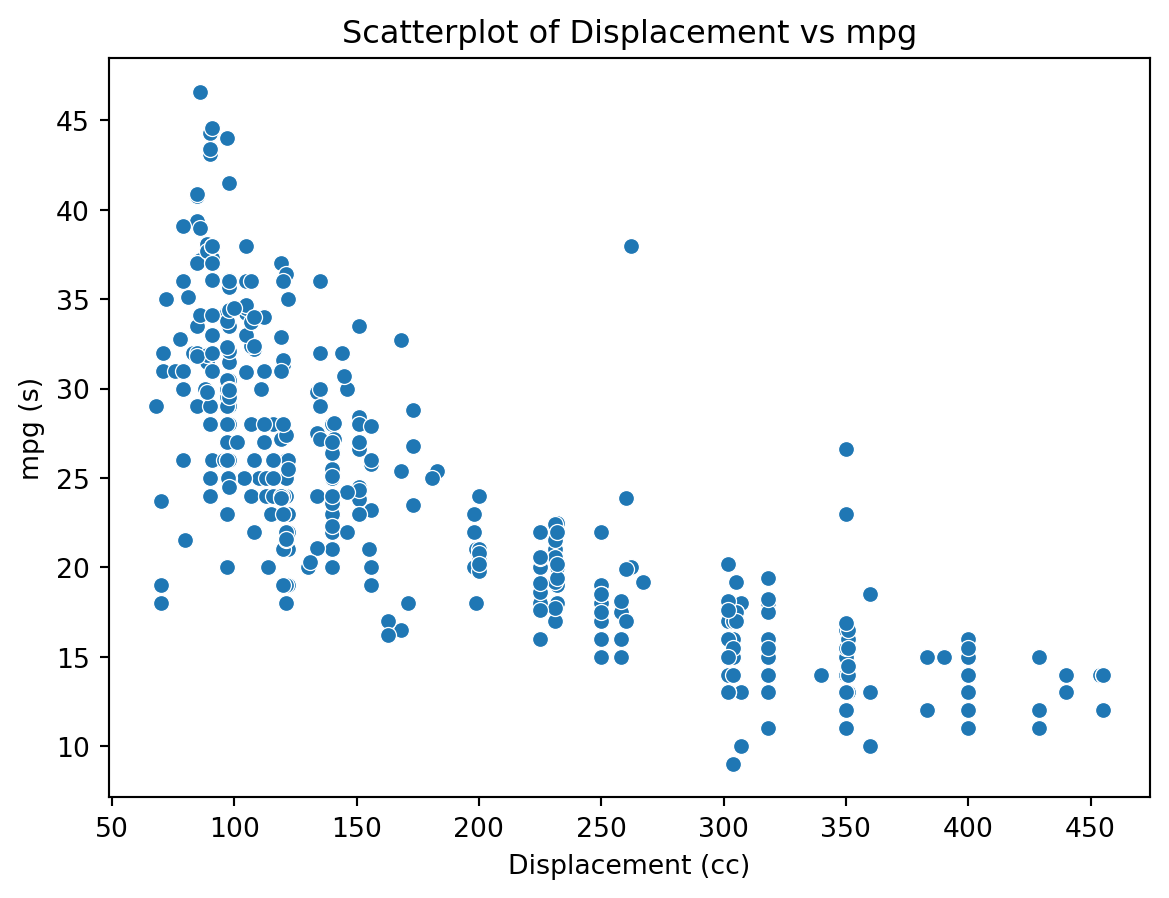
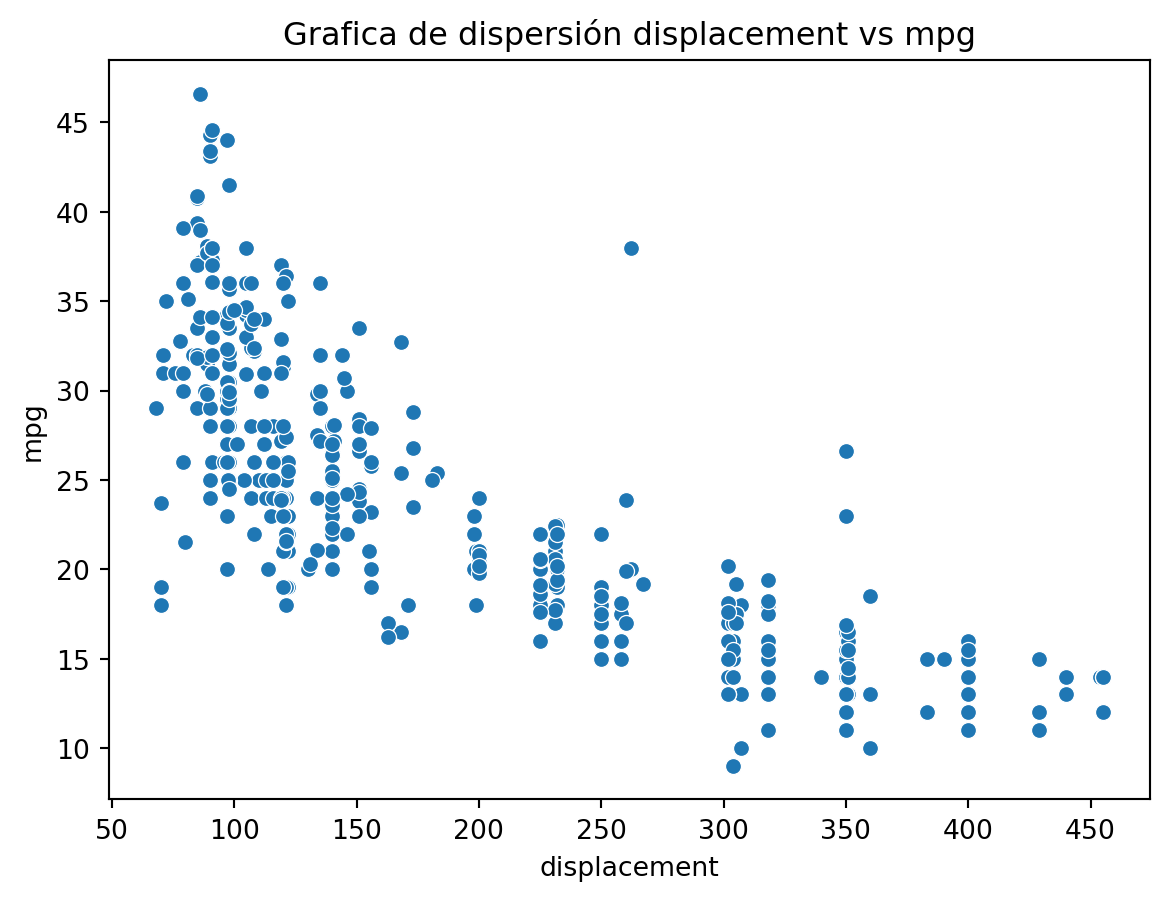
adelanto

diff --git a/_site/index.html b/_site/index.html
@@ -142,9 +142,13 @@ pre > code.sourceCode > span > a:first-child::before { text-decoration: underlin
     <h2 id="toc-title">On this page</h2>
    
   <ul>
-  <li><a href="#carga-del-dataset" id="toc-carga-del-dataset" class="nav-link active" data-scroll-target="#carga-del-dataset">Carga del dataset</a></li>
+  <li><a href="#carga-de-datos" id="toc-carga-de-datos" class="nav-link active" data-scroll-target="#carga-de-datos">Carga de datos</a></li>
   <li><a href="#en-qué-consiste-este-dataset-y-sus-características" id="toc-en-qué-consiste-este-dataset-y-sus-características" class="nav-link" data-scroll-target="#en-qué-consiste-este-dataset-y-sus-características">En qué consiste este dataset y sus características</a></li>
-  <li><a href="#análisis-exploratorio-para-identificar-la-distribución-de-las-variables-usadas-en-la-base-de-datos" id="toc-análisis-exploratorio-para-identificar-la-distribución-de-las-variables-usadas-en-la-base-de-datos" class="nav-link" data-scroll-target="#análisis-exploratorio-para-identificar-la-distribución-de-las-variables-usadas-en-la-base-de-datos">Análisis exploratorio para identificar la distribución de las variables usadas en la base de datos</a></li>
+  <li><a href="#análisis-exploratorio-para-identificar-la-distribución-de-las-variables-usadas-en-la-base-de-datos" id="toc-análisis-exploratorio-para-identificar-la-distribución-de-las-variables-usadas-en-la-base-de-datos" class="nav-link" data-scroll-target="#análisis-exploratorio-para-identificar-la-distribución-de-las-variables-usadas-en-la-base-de-datos">Análisis exploratorio para identificar la distribución de las variables usadas en la base de datos</a>
+  <ul class="collapse">
+  <li><a href="#variables-continuas" id="toc-variables-continuas" class="nav-link" data-scroll-target="#variables-continuas">Variables continuas</a></li>
+  <li><a href="#variables-categoricas" id="toc-variables-categoricas" class="nav-link" data-scroll-target="#variables-categoricas">Variables categoricas</a></li>
+  </ul></li>
   <li><a href="#datos-faltantes-en-cada-uno-de-las-variables." id="toc-datos-faltantes-en-cada-uno-de-las-variables." class="nav-link" data-scroll-target="#datos-faltantes-en-cada-uno-de-las-variables.">Datos faltantes en cada uno de las variables.</a></li>
   <li><a href="#cuál-cree-que-es-el-mecanismo-inherente-a-esos-datos-faltantes" id="toc-cuál-cree-que-es-el-mecanismo-inherente-a-esos-datos-faltantes" class="nav-link" data-scroll-target="#cuál-cree-que-es-el-mecanismo-inherente-a-esos-datos-faltantes">¿Cuál cree que es el mecanismo inherente a esos datos faltantes?</a></li>
   <li><a href="#técnicas-de-tratamiento-de-datos-faltantes-vistas-en-clase" id="toc-técnicas-de-tratamiento-de-datos-faltantes-vistas-en-clase" class="nav-link" data-scroll-target="#técnicas-de-tratamiento-de-datos-faltantes-vistas-en-clase">Técnicas de tratamiento de datos faltantes (vistas en clase)</a></li>
@@ -172,19 +176,24 @@ pre > code.sourceCode > span > a:first-child::before { text-decoration: underlin
 
 </header>
 
-<section id="carga-del-dataset" class="level2">
-<h2 class="anchored" data-anchor-id="carga-del-dataset">Carga del dataset</h2>
+<section id="carga-de-datos" class="level2">
+<h2 class="anchored" data-anchor-id="carga-de-datos">Carga de datos</h2>
 <div class="cell" data-execution_count="1">
+<details>
+<summary>Code</summary>
 <div class="sourceCode cell-code" id="cb1"><pre class="sourceCode python code-with-copy"><code class="sourceCode python"><span id="cb1-1"><a href="#cb1-1" aria-hidden="true" tabindex="-1"></a><span class="im">from</span> ucimlrepo <span class="im">import</span> fetch_ucirepo </span>
 <span id="cb1-2"><a href="#cb1-2" aria-hidden="true" tabindex="-1"></a><span class="im">import</span> pandas <span class="im">as</span> pd</span>
 <span id="cb1-3"><a href="#cb1-3" aria-hidden="true" tabindex="-1"></a><span class="im">import</span> seaborn <span class="im">as</span> sns</span>
 <span id="cb1-4"><a href="#cb1-4" aria-hidden="true" tabindex="-1"></a><span class="im">from</span> matplotlib <span class="im">import</span> pyplot <span class="im">as</span> plt</span>
-<span id="cb1-5"><a href="#cb1-5" aria-hidden="true" tabindex="-1"></a></span>
-<span id="cb1-6"><a href="#cb1-6" aria-hidden="true" tabindex="-1"></a>auto_mpg <span class="op">=</span> fetch_ucirepo(<span class="bu">id</span><span class="op">=</span><span class="dv">9</span>) </span>
+<span id="cb1-5"><a href="#cb1-5" aria-hidden="true" tabindex="-1"></a><span class="im">from</span> scipy <span class="im">import</span> stats</span>
+<span id="cb1-6"><a href="#cb1-6" aria-hidden="true" tabindex="-1"></a><span class="im">import</span> numpy <span class="im">as</span> np</span>
 <span id="cb1-7"><a href="#cb1-7" aria-hidden="true" tabindex="-1"></a></span>
-<span id="cb1-8"><a href="#cb1-8" aria-hidden="true" tabindex="-1"></a><span class="co"># data (as pandas dataframes) </span></span>
+<span id="cb1-8"><a href="#cb1-8" aria-hidden="true" tabindex="-1"></a>auto_mpg <span class="op">=</span> fetch_ucirepo(<span class="bu">id</span><span class="op">=</span><span class="dv">9</span>) </span>
 <span id="cb1-9"><a href="#cb1-9" aria-hidden="true" tabindex="-1"></a></span>
-<span id="cb1-10"><a href="#cb1-10" aria-hidden="true" tabindex="-1"></a>data <span class="op">=</span> pd.concat([auto_mpg.data.features, auto_mpg.data.targets], axis<span class="op">=</span><span class="dv">1</span>, join<span class="op">=</span><span class="st">'outer'</span>)</span></code><button title="Copy to Clipboard" class="code-copy-button"><i class="bi"></i></button></pre></div>
+<span id="cb1-10"><a href="#cb1-10" aria-hidden="true" tabindex="-1"></a><span class="co"># data (as pandas dataframes) </span></span>
+<span id="cb1-11"><a href="#cb1-11" aria-hidden="true" tabindex="-1"></a></span>
+<span id="cb1-12"><a href="#cb1-12" aria-hidden="true" tabindex="-1"></a>data <span class="op">=</span> pd.concat([auto_mpg.data.features, auto_mpg.data.targets], axis<span class="op">=</span><span class="dv">1</span>, join<span class="op">=</span><span class="st">'outer'</span>)</span></code><button title="Copy to Clipboard" class="code-copy-button"><i class="bi"></i></button></pre></div>
+</details>
 </div>
 </section>
 <section id="en-qué-consiste-este-dataset-y-sus-características" class="level2">
@@ -197,42 +206,115 @@ pre > code.sourceCode > span > a:first-child::before { text-decoration: underlin
 <li>horsepower: (caballos de fuerza) continua</li>
 <li>weight: (peso) continua</li>
 <li>acceleration: (acelearación) continua</li>
-<li>model year: (año modelo) multi valuada discreta</li>
+<li>model_year: (año modelo) multi valuada discreta</li>
 <li>origin: (origen) multi valuada discreta</li>
-<li>car name: (nombre de carro) texto, unico para cada fila</li>
 </ol>
-<p>398 filas y 8 columnas</p>
+<p>Este dataset consiste de 398 filas y 8 columnas</p>
 </section>
 <section id="análisis-exploratorio-para-identificar-la-distribución-de-las-variables-usadas-en-la-base-de-datos" class="level2">
 <h2 class="anchored" data-anchor-id="análisis-exploratorio-para-identificar-la-distribución-de-las-variables-usadas-en-la-base-de-datos">Análisis exploratorio para identificar la distribución de las variables usadas en la base de datos</h2>
-<p>¿será que existe relación entre las variables?</p>
-<div class="cell" title="Iowa Electricity" data-execution_count="2">
-<div class="sourceCode cell-code" id="cb2"><pre class="sourceCode python code-with-copy"><code class="sourceCode python"><span id="cb2-1"><a href="#cb2-1" aria-hidden="true" tabindex="-1"></a><span class="co"># Create a scatterplot of 'displacement' vs 'acceleration'</span></span>
-<span id="cb2-2"><a href="#cb2-2" aria-hidden="true" tabindex="-1"></a>sns.scatterplot(x<span class="op">=</span><span class="st">'displacement'</span>, y<span class="op">=</span><span class="st">'mpg'</span>, data<span class="op">=</span>data)</span>
-<span id="cb2-3"><a href="#cb2-3" aria-hidden="true" tabindex="-1"></a></span>
-<span id="cb2-4"><a href="#cb2-4" aria-hidden="true" tabindex="-1"></a><span class="co"># Add labels and title</span></span>
-<span id="cb2-5"><a href="#cb2-5" aria-hidden="true" tabindex="-1"></a>plt.xlabel(<span class="st">'Displacement (cc)'</span>)</span>
-<span id="cb2-6"><a href="#cb2-6" aria-hidden="true" tabindex="-1"></a>plt.ylabel(<span class="st">'mpg (s)'</span>)</span>
-<span id="cb2-7"><a href="#cb2-7" aria-hidden="true" tabindex="-1"></a>plt.title(<span class="st">'Scatterplot of Displacement vs mpg'</span>)</span>
-<span id="cb2-8"><a href="#cb2-8" aria-hidden="true" tabindex="-1"></a></span>
-<span id="cb2-9"><a href="#cb2-9" aria-hidden="true" tabindex="-1"></a><span class="co"># Display the plot</span></span>
-<span id="cb2-10"><a href="#cb2-10" aria-hidden="true" tabindex="-1"></a>plt.show()</span></code><button title="Copy to Clipboard" class="code-copy-button"><i class="bi"></i></button></pre></div>
+<section id="variables-continuas" class="level3">
+<h3 class="anchored" data-anchor-id="variables-continuas">Variables continuas</h3>
+<div class="cell" data-execution_count="2">
+<details>
+<summary>Code</summary>
+<div class="sourceCode cell-code" id="cb2"><pre class="sourceCode python code-with-copy"><code class="sourceCode python"><span id="cb2-1"><a href="#cb2-1" aria-hidden="true" tabindex="-1"></a><span class="cf">for</span> col <span class="kw">in</span> [<span class="st">"displacement"</span>, <span class="st">"horsepower"</span>, <span class="st">"weight"</span>, <span class="st">"acceleration"</span>]:</span>
+<span id="cb2-2"><a href="#cb2-2" aria-hidden="true" tabindex="-1"></a>  <span class="co"># Create a scatterplot of --- vs 'acceleration'</span></span>
+<span id="cb2-3"><a href="#cb2-3" aria-hidden="true" tabindex="-1"></a>  sns.scatterplot(x<span class="op">=</span>col, y<span class="op">=</span><span class="st">'mpg'</span>, data<span class="op">=</span>data)</span>
+<span id="cb2-4"><a href="#cb2-4" aria-hidden="true" tabindex="-1"></a>  </span>
+<span id="cb2-5"><a href="#cb2-5" aria-hidden="true" tabindex="-1"></a>  <span class="co"># Add labels and title</span></span>
+<span id="cb2-6"><a href="#cb2-6" aria-hidden="true" tabindex="-1"></a>  plt.xlabel(<span class="ss">f"</span><span class="sc">{</span>col<span class="sc">}</span><span class="ss">"</span>)</span>
+<span id="cb2-7"><a href="#cb2-7" aria-hidden="true" tabindex="-1"></a>  plt.ylabel(<span class="ss">f"mpg"</span>)</span>
+<span id="cb2-8"><a href="#cb2-8" aria-hidden="true" tabindex="-1"></a>  plt.title(<span class="ss">f"Grafica de dispersión </span><span class="sc">{</span>col<span class="sc">}</span><span class="ss"> vs mpg"</span>)</span>
+<span id="cb2-9"><a href="#cb2-9" aria-hidden="true" tabindex="-1"></a>  </span>
+<span id="cb2-10"><a href="#cb2-10" aria-hidden="true" tabindex="-1"></a>  <span class="co"># Display the plot</span></span>
+<span id="cb2-11"><a href="#cb2-11" aria-hidden="true" tabindex="-1"></a>  plt.show()</span></code><button title="Copy to Clipboard" class="code-copy-button"><i class="bi"></i></button></pre></div>
+</details>
 <div class="cell-output cell-output-display">
-<p><img src="index_files/figure-html/cell-3-output-1.png" width="585" height="449"></p>
+<p><img src="index_files/figure-html/cell-3-output-1.png" width="585" height="450"></p>
+</div>
+<div class="cell-output cell-output-display">
+<p><img src="index_files/figure-html/cell-3-output-2.png" width="585" height="450"></p>
+</div>
+<div class="cell-output cell-output-display">
+<p><img src="index_files/figure-html/cell-3-output-3.png" width="585" height="450"></p>
+</div>
+<div class="cell-output cell-output-display">
+<p><img src="index_files/figure-html/cell-3-output-4.png" width="585" height="450"></p>
 </div>
 </div>
+<div class="cell" data-execution_count="3">
+<details>
+<summary>Code</summary>
+<div class="sourceCode cell-code" id="cb3"><pre class="sourceCode python code-with-copy"><code class="sourceCode python"><span id="cb3-1"><a href="#cb3-1" aria-hidden="true" tabindex="-1"></a><span class="co"># List of variables to plot</span></span>
+<span id="cb3-2"><a href="#cb3-2" aria-hidden="true" tabindex="-1"></a>X <span class="op">=</span> [<span class="st">'displacement'</span>, <span class="st">'horsepower'</span>, <span class="st">'weight'</span>, <span class="st">'acceleration'</span>]</span>
+<span id="cb3-3"><a href="#cb3-3" aria-hidden="true" tabindex="-1"></a></span>
+<span id="cb3-4"><a href="#cb3-4" aria-hidden="true" tabindex="-1"></a><span class="co"># Create a correlation matrix</span></span>
+<span id="cb3-5"><a href="#cb3-5" aria-hidden="true" tabindex="-1"></a>corr <span class="op">=</span> data[X <span class="op">+</span> [<span class="st">'mpg'</span>]].corr(method <span class="op">=</span> <span class="st">"spearman"</span>)</span>
+<span id="cb3-6"><a href="#cb3-6" aria-hidden="true" tabindex="-1"></a></span>
+<span id="cb3-7"><a href="#cb3-7" aria-hidden="true" tabindex="-1"></a></span>
+<span id="cb3-8"><a href="#cb3-8" aria-hidden="true" tabindex="-1"></a><span class="co"># Set up the matplotlib figure</span></span>
+<span id="cb3-9"><a href="#cb3-9" aria-hidden="true" tabindex="-1"></a>plt.figure(figsize<span class="op">=</span>(<span class="dv">8</span>, <span class="dv">6</span>))</span>
+<span id="cb3-10"><a href="#cb3-10" aria-hidden="true" tabindex="-1"></a></span>
+<span id="cb3-11"><a href="#cb3-11" aria-hidden="true" tabindex="-1"></a><span class="co"># Draw the heatmap with the mask and annotations</span></span>
+<span id="cb3-12"><a href="#cb3-12" aria-hidden="true" tabindex="-1"></a>sns.heatmap(corr, annot<span class="op">=</span><span class="va">True</span>, cmap<span class="op">=</span><span class="st">'coolwarm'</span>, vmin<span class="op">=-</span><span class="dv">1</span>, vmax<span class="op">=</span><span class="dv">1</span>,</span>
+<span id="cb3-13"><a href="#cb3-13" aria-hidden="true" tabindex="-1"></a>            xticklabels<span class="op">=</span>X <span class="op">+</span> [<span class="st">'mpg'</span>], yticklabels<span class="op">=</span>X <span class="op">+</span> [<span class="st">'mpg'</span>])</span>
+<span id="cb3-14"><a href="#cb3-14" aria-hidden="true" tabindex="-1"></a></span>
+<span id="cb3-15"><a href="#cb3-15" aria-hidden="true" tabindex="-1"></a><span class="co"># Add labels</span></span>
+<span id="cb3-16"><a href="#cb3-16" aria-hidden="true" tabindex="-1"></a>plt.title(<span class="st">'Correlación: Variables vs. MPG'</span>, fontsize<span class="op">=</span><span class="dv">14</span>)</span>
+<span id="cb3-17"><a href="#cb3-17" aria-hidden="true" tabindex="-1"></a>plt.xlabel(<span class="st">'Variables'</span>, fontsize<span class="op">=</span><span class="dv">12</span>)</span>
+<span id="cb3-18"><a href="#cb3-18" aria-hidden="true" tabindex="-1"></a>plt.ylabel(<span class="st">'Variables'</span>, fontsize<span class="op">=</span><span class="dv">12</span>)</span>
+<span id="cb3-19"><a href="#cb3-19" aria-hidden="true" tabindex="-1"></a></span>
+<span id="cb3-20"><a href="#cb3-20" aria-hidden="true" tabindex="-1"></a><span class="co"># Show the plot</span></span>
+<span id="cb3-21"><a href="#cb3-21" aria-hidden="true" tabindex="-1"></a>plt.show()</span></code><button title="Copy to Clipboard" class="code-copy-button"><i class="bi"></i></button></pre></div>
+</details>
+<div class="cell-output cell-output-display">
+<p><img src="index_files/figure-html/cell-4-output-1.png" width="641" height="528"></p>
+</div>
+</div>
+</section>
+<section id="variables-categoricas" class="level3">
+<h3 class="anchored" data-anchor-id="variables-categoricas">Variables categoricas</h3>
+<div class="cell" data-execution_count="4">
+<details>
+<summary>Code</summary>
+<div class="sourceCode cell-code" id="cb4"><pre class="sourceCode python code-with-copy"><code class="sourceCode python"><span id="cb4-1"><a href="#cb4-1" aria-hidden="true" tabindex="-1"></a><span class="cf">for</span> col <span class="kw">in</span> [<span class="st">"model_year"</span>, <span class="st">"origin"</span>, <span class="st">"cylinders"</span>]:</span>
+<span id="cb4-2"><a href="#cb4-2" aria-hidden="true" tabindex="-1"></a>  </span>
+<span id="cb4-3"><a href="#cb4-3" aria-hidden="true" tabindex="-1"></a>  sns.violinplot(x<span class="op">=</span>col, y<span class="op">=</span><span class="st">'mpg'</span>, bw_adjust<span class="op">=</span><span class="fl">.5</span>, inner<span class="op">=</span><span class="st">"stick"</span>, data<span class="op">=</span>data)</span>
+<span id="cb4-4"><a href="#cb4-4" aria-hidden="true" tabindex="-1"></a>  <span class="co"># Add labels and title</span></span>
+<span id="cb4-5"><a href="#cb4-5" aria-hidden="true" tabindex="-1"></a>  plt.xlabel(<span class="ss">f"</span><span class="sc">{</span>col<span class="sc">}</span><span class="ss">"</span>)</span>
+<span id="cb4-6"><a href="#cb4-6" aria-hidden="true" tabindex="-1"></a>  plt.ylabel(<span class="ss">f"mpg"</span>)</span>
+<span id="cb4-7"><a href="#cb4-7" aria-hidden="true" tabindex="-1"></a>  plt.title(<span class="ss">f"Grafica de dispersión </span><span class="sc">{</span>col<span class="sc">}</span><span class="ss"> vs mpg"</span>)</span>
+<span id="cb4-8"><a href="#cb4-8" aria-hidden="true" tabindex="-1"></a>  </span>
+<span id="cb4-9"><a href="#cb4-9" aria-hidden="true" tabindex="-1"></a>  <span class="co"># Display the plot</span></span>
+<span id="cb4-10"><a href="#cb4-10" aria-hidden="true" tabindex="-1"></a>  plt.show()</span></code><button title="Copy to Clipboard" class="code-copy-button"><i class="bi"></i></button></pre></div>
+</details>
+<div class="cell-output cell-output-display">
+<p><img src="index_files/figure-html/cell-5-output-1.png" width="585" height="450"></p>
+</div>
+<div class="cell-output cell-output-display">
+<p><img src="index_files/figure-html/cell-5-output-2.png" width="585" height="450"></p>
+</div>
+<div class="cell-output cell-output-display">
+<p><img src="index_files/figure-html/cell-5-output-3.png" width="585" height="450"></p>
+</div>
+</div>
+</section>
 </section>
 <section id="datos-faltantes-en-cada-uno-de-las-variables." class="level2">
 <h2 class="anchored" data-anchor-id="datos-faltantes-en-cada-uno-de-las-variables.">Datos faltantes en cada uno de las variables.</h2>
 <p>Porcentaje de NA’s para cada columna</p>
-<div class="cell" data-execution_count="3">
-<div class="sourceCode cell-code" id="cb3"><pre class="sourceCode python code-with-copy"><code class="sourceCode python"><span id="cb3-1"><a href="#cb3-1" aria-hidden="true" tabindex="-1"></a><span class="im">from</span> itables <span class="im">import</span> show</span>
-<span id="cb3-2"><a href="#cb3-2" aria-hidden="true" tabindex="-1"></a>tbl <span class="op">=</span> data.isna().<span class="bu">sum</span>()<span class="op">/</span>data.shape[<span class="dv">0</span>]<span class="op">*</span><span class="dv">100</span></span>
-<span id="cb3-3"><a href="#cb3-3" aria-hidden="true" tabindex="-1"></a></span>
-<span id="cb3-4"><a href="#cb3-4" aria-hidden="true" tabindex="-1"></a>show(tbl)</span></code><button title="Copy to Clipboard" class="code-copy-button"><i class="bi"></i></button></pre></div>
+<div class="cell" data-execution_count="5">
+<details>
+<summary>Code</summary>
+<div class="sourceCode cell-code" id="cb5"><pre class="sourceCode python code-with-copy"><code class="sourceCode python"><span id="cb5-1"><a href="#cb5-1" aria-hidden="true" tabindex="-1"></a><span class="im">from</span> itables <span class="im">import</span> show</span>
+<span id="cb5-2"><a href="#cb5-2" aria-hidden="true" tabindex="-1"></a>tbl <span class="op">=</span> data.isna().<span class="bu">sum</span>()<span class="op">/</span>data.shape[<span class="dv">0</span>]<span class="op">*</span><span class="dv">100</span></span>
+<span id="cb5-3"><a href="#cb5-3" aria-hidden="true" tabindex="-1"></a></span>
+<span id="cb5-4"><a href="#cb5-4" aria-hidden="true" tabindex="-1"></a>show(tbl)</span></code><button title="Copy to Clipboard" class="code-copy-button"><i class="bi"></i></button></pre></div>
+</details>
 <div class="cell-output cell-output-display">
 
-<table id="itables_01bc6495_7099_4930_938c_0efcac9a81f0" class="display nowrap" data-quarto-disable-processing="true" style="table-layout:auto;width:auto;margin:auto;caption-side:bottom">
+<table id="itables_d88de4ab_6479_48f2_96c1_c7cec0f195ea" class="display nowrap" data-quarto-disable-processing="true" style="table-layout:auto;width:auto;margin:auto;caption-side:bottom">
 <thead>
     <tr style="text-align: right;">
       <th></th>
@@ -245,7 +327,7 @@ pre > code.sourceCode > span > a:first-child::before { text-decoration: underlin
 <script type="module">
     import {DataTable, jQuery as $} from 'https://www.unpkg.com/dt_for_itables@2.0.1/dt_bundle.js';
 
-    document.querySelectorAll("#itables_01bc6495_7099_4930_938c_0efcac9a81f0:not(.dataTable)").forEach(table => {
+    document.querySelectorAll("#itables_d88de4ab_6479_48f2_96c1_c7cec0f195ea:not(.dataTable)").forEach(table => {
         // Define the table data
         const data = [["displacement", 0.0], ["cylinders", 0.0], ["horsepower", 1.507538], ["weight", 0.0], ["acceleration", 0.0], ["model_year", 0.0], ["origin", 0.0], ["mpg", 0.0]];
 
